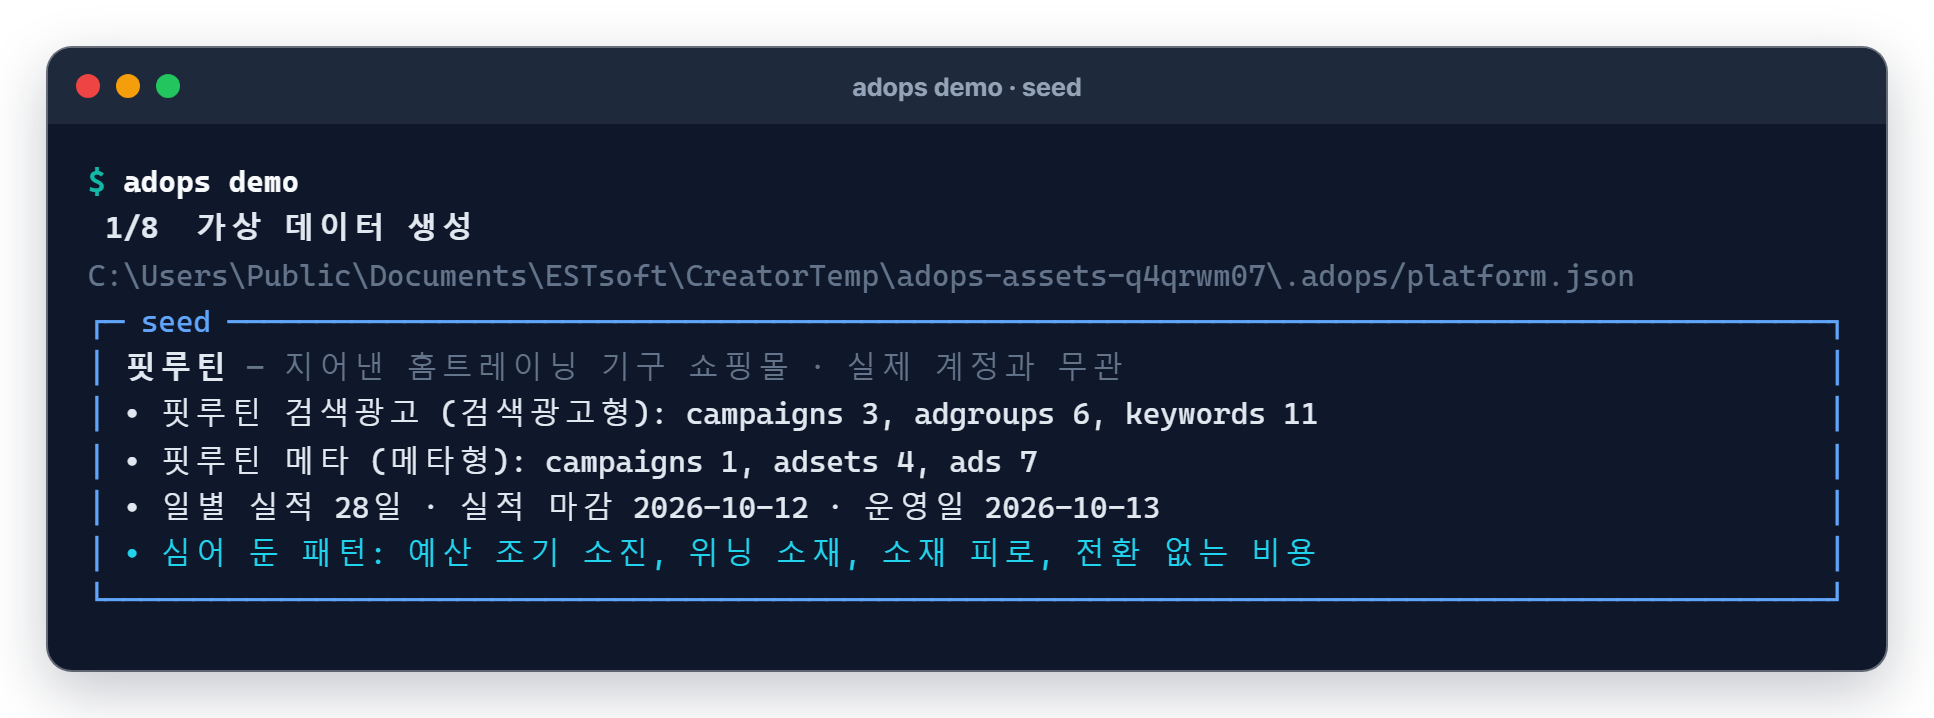
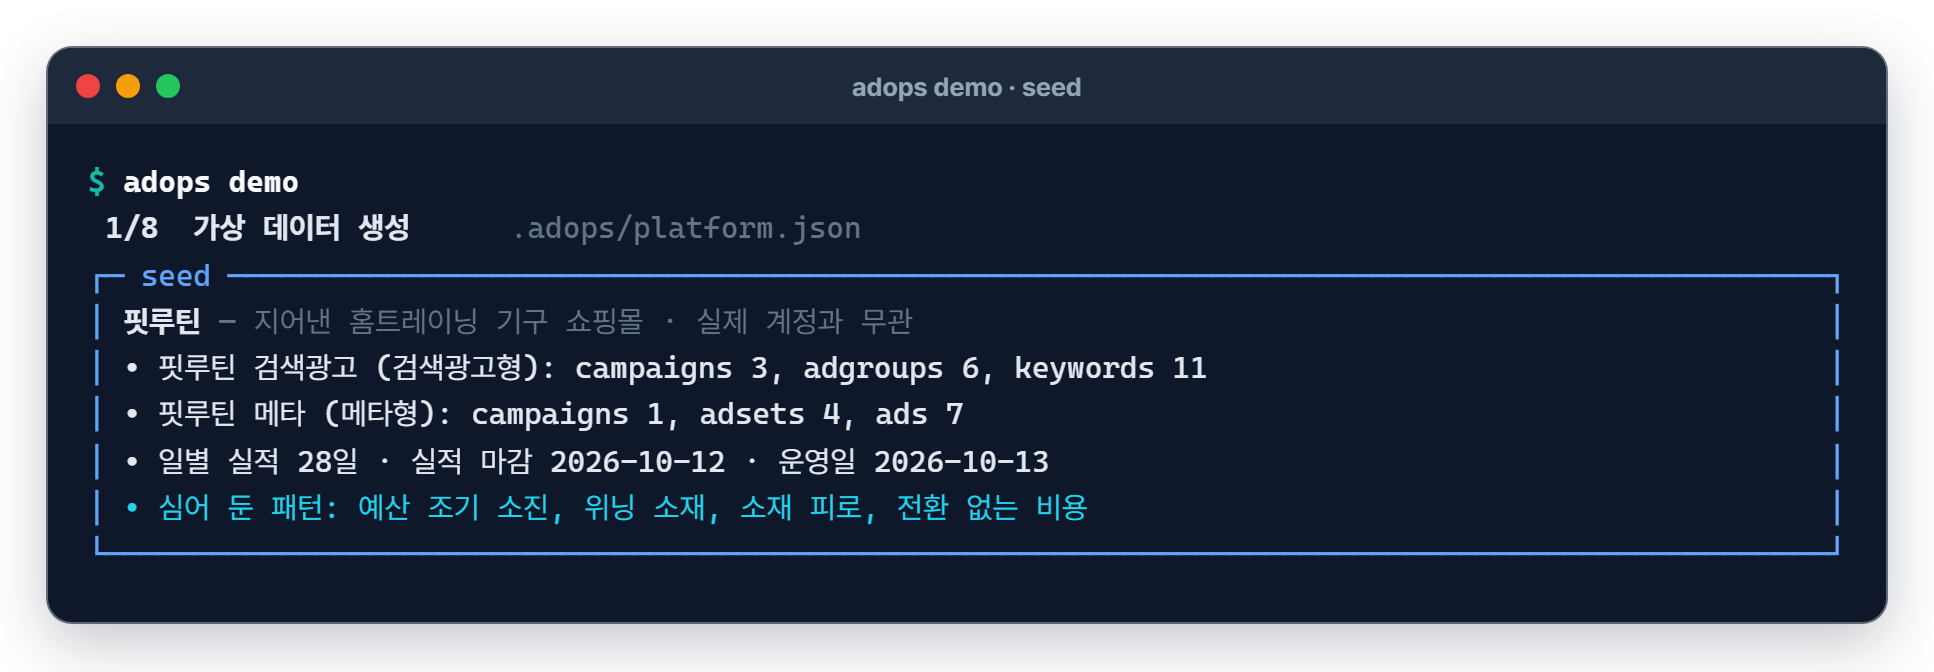
데모 터미널 캡처 한글 간격 수정 — 키트 렌더러 사용
- 디자인 키트 shots.py term이 한글을 구간 단위로 셀 격자에 맞추도록 바뀌어 저장소 쪽 전각 후처리 제거
- docs/shots/01~08, demo.gif 재생성(한글 자연 간격, 표 세로선 정렬 유지)
- 데모를 상대 경로(.adops)로 실행해 캡처에 로컬 임시 경로가 찍히지 않게 함

Changed region(s): [[0.031, 0.2188, 0.9617, 0.8438], [0.031, 0.0625, 0.9928, 0.1562], [0.031, 0.9062, 0.9928, 0.9375]]

diff --git a/scripts/make_demo_assets.py b/scripts/make_demo_assets.py
@@ -7,17 +7,16 @@
 3. PNG를 묶어 docs/demo.gif
 4. 브리핑 HTML을 구역별로 캡처 → docs/shots/brief-*.png
 
-키트 터미널 렌더러에 한 가지를 더한다: 한글 같은 전각 문자는 고정폭 글꼴에서 정확히 2칸이 아니라
-rich 표의 세로선이 어긋나므로, 전각 문자는 2ch, 그 밖의 비ASCII 문자는 1ch 폭으로 고정한다.
+터미널 PNG는 키트의 `shots.render_terminal`을 그대로 쓴다. 키트가 한글(2칸)과 표 세로선을
+셀 격자에 맞추면서 한글은 자연 간격으로 렌더한다(저장소 쪽 후처리 없음).
 """
 from __future__ import annotations
 
 import argparse
-import re
+import os
 import shutil
 import sys
 import tempfile
-import unicodedata
 from pathlib import Path
 
 from rich.console import Console
@@ -25,48 +24,6 @@ from rich.console import Console
 ROOT = Path(__file__).resolve().parents[1]
 GIF_STEPS = ["02-diagnose", "03-plan", "04-preview", "06-apply", "07-rollback", "08-brief"]
 BRIEF_SECTIONS = {"brief-overview": "#overview", "brief-runs": "#runs-section", "brief-heat": "#heat-section"}
-
-_TAG = re.compile(r"(<[^>]+>)")
-_BOX = range(0x2500, 0x2580)
-
-
-def _fix_char(ch: str) -> str:
-    if ord(ch) < 128 or ord(ch) in _BOX:
-        return ch
-    if unicodedata.east_asian_width(ch) in ("W", "F"):
-        return f'<span class="w2">{ch}</span>'
-    return f'<span class="w1">{ch}</span>'
-
-
-_CORNERS = str.maketrans("╭╮╰╯", "┌┐└┘")  # 둥근 모서리 → 각진 모서리(글꼴에 있음)
-
-
-def fix_wide(html: str) -> str:
-    html = html.translate(_CORNERS)
-    head, sep, rest = html.partition("<pre>")
-    body, sep2, tail = rest.partition("</pre>")
-    parts = _TAG.split(body)
-    fixed = "".join(p if p.startswith("<") else "".join(_fix_char(c) for c in p) for p in parts)
-    css = (".w2{display:inline-block;width:2ch;text-align:center}"
-           ".w1{display:inline-block;width:1ch;text-align:center;overflow:visible}"
-           # 줄바꿈 없이 창 폭을 내용(100칸)에 맞춘다
-           "pre{white-space:pre !important;word-break:normal !important}.win{width:auto !important}")
-    head = head.replace("</style>", css + "</style>", 1)
-    return head + sep + fixed + sep2 + tail
-
-
-def render_term(shots, launch_browser, text: str, out: Path, title: str, command: str | None) -> None:
-    from playwright.sync_api import sync_playwright
-
-    html = fix_wide(shots.terminal_html(text, title, command, width=900, font_size=15))
-    out.parent.mkdir(parents=True, exist_ok=True)
-    with sync_playwright() as p:
-        browser = launch_browser(p)
-        page = browser.new_page(viewport={"width": 1400, "height": 400}, device_scale_factor=2)
-        page.set_content(html, wait_until="load")
-        page.evaluate("async () => { await document.fonts.load('15px Pretendard'); await document.fonts.ready; }")
-        page.locator("body").screenshot(path=str(out), omit_background=True)
-        browser.close()
 
 
 def main() -> None:
@@ -76,7 +33,6 @@ def main() -> None:
     args = ap.parse_args()
     sys.path.insert(0, str(args.kit.resolve()))
     import shots  # type: ignore[import-not-found]
-    from kit_common import launch_browser  # type: ignore[import-not-found]
 
     from adops.demo import run_demo
 
@@ -87,19 +43,26 @@ def main() -> None:
         cap = tmp / "capture"
         console = Console(record=True, width=100, force_terminal=True, color_system="standard",
                           highlight=False, file=open(tmp / "stdout.txt", "w", encoding="utf-8"))  # noqa: SIM115
-        result = run_demo(tmp / ".adops", console, cap)
+        # 화면에 로컬 임시 경로가 찍히지 않도록 임시 폴더로 이동해 상대 경로(.adops)로 실행한다
+        prev = Path.cwd()
+        os.chdir(tmp)
+        try:
+            result = run_demo(Path(".adops"), console, cap)
+            brief_path = result.brief_path.resolve()
+        finally:
+            os.chdir(prev)
         for ansi in sorted(cap.glob("*.ansi")):
             text = ansi.read_text(encoding="utf-8").strip("\n")
             command = "adops demo" if ansi.stem.startswith("01") else None
             out = shot_dir / f"{ansi.stem}.png"
-            render_term(shots, launch_browser, text, out, f"adops demo · {ansi.stem[3:]}", command)
+            shots.render_terminal(text, out, f"adops demo · {ansi.stem[3:]}", command, width=900, scale=2)
             print("생성:", out)
         frames = [shot_dir / f"{s}.png" for s in GIF_STEPS]
         gif = shots.make_gif(frames, args.out / "demo.gif", duration=2200, width=900)
         print("생성:", gif, f"{gif.stat().st_size / 1e6:.1f}MB")
         for name, selector in BRIEF_SECTIONS.items():
             out = shot_dir / f"{name}.png"
-            shots.capture_html(str(result.brief_path), out, width=1280, height=900, scale=2, selector=selector)
+            shots.capture_html(str(brief_path), out, width=1280, height=900, scale=2, selector=selector)
             print("생성:", out)
     finally:
         shutil.rmtree(tmp, ignore_errors=True)
